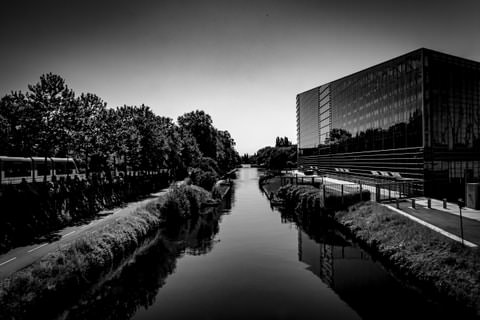
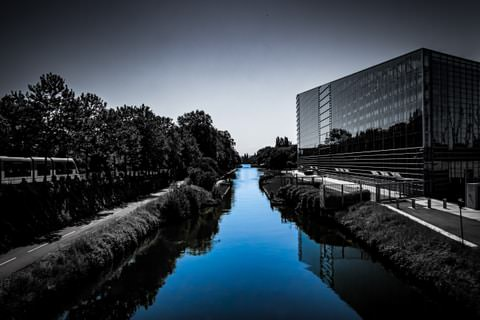
Photo Improvements

diff --git a/themes/landscape/source/js/scripts.js b/themes/landscape/source/js/scripts.js
@@ -306,8 +306,8 @@ async function setVibrantColor() {
       let file = img.substr(img.lastIndexOf('/') + 1);
       let hex;
 
-      //get color from substiution list
-      const response = await fetch('/photo-color-substitutions.json');
+      //get color from custom color list
+      const response = await fetch('/photo-custom-colors.json');
       const subst = await response.json();
       hex = subst.find(obj => { return obj.file === file; })?.color;
 
